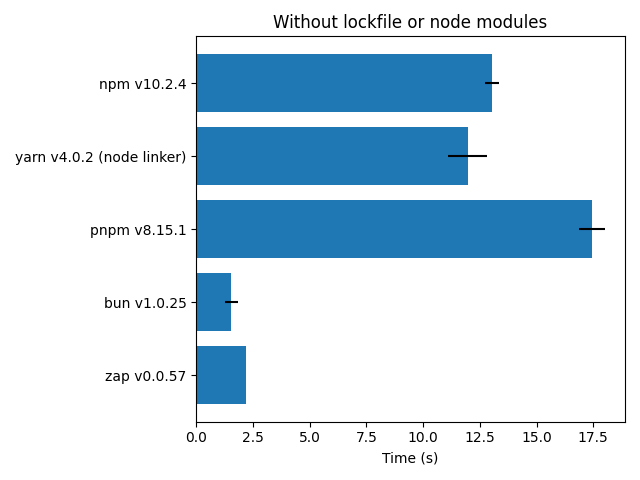
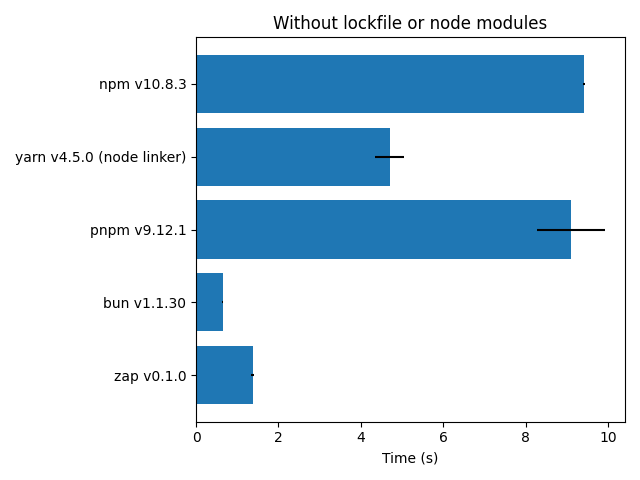
chore: update bench

diff --git a/README.md b/README.md
@@ -188,7 +188,7 @@ Benchmarks consist on installing a fresh [**create-react-app**](https://create-r
 
 **See:** [https://github.com/elbywan/zap/tree/main/bench](/bench)
 
-They are performed on my own personal laptop (macbook pro 16" 2019, 2,3 GHz Intel Core i9, 16 Go 2667 MHz DDR4) with 5G wifi and 1 Gb/s fiber.
+They are performed on my own personal laptop (Framework Laptop 13, AMD Ryzen 5 7640U, 32 GB 5600 MHz DDR5) with 5G wifi and 1 Gb/s fiber.
 
 The benchmarking tool is [**hyperfine**](https://github.com/sharkdp/hyperfine) and to make sure that the results are consistent I re-ran unfavorable results (high error delta).
 
@@ -244,7 +244,7 @@ crystal projects.cr spec install
 # Run the specs
 crystal projects.cr spec
 # Build locally (-Dpreview_mt might not work on some os/arch)
-crystal projects.cr -p cli build --progress -Dpreview_mt --release
+crystal projects.cr cli:build --production  --release --progress -Dpreview_mt
 # Run the binary
 ./packages/cli/bin/zap --help
 ```

diff --git a/bench/README.md b/bench/README.md
@@ -28,6 +28,12 @@ pkgx +yarnpkg.com +node +npm +pnpm +bun +python
 
 ## Dependencies
 
+### Benchmarking
+
+Benchmarking is done using [hyperfine](https://github.com/sharkdp/hyperfine).
+
+### Plotting
+
 Plotting requires python and the following dependencies:
 
 ```bash
@@ -38,7 +44,7 @@ pip install numpy matplotlib
 
 ```bash
 # Run the benchmarks
-./bench.sh
+./bench.sh # or ./bench-local.sh to build and benchmark a local version of zap
 # Plot the results
 ./plot.sh
 ```
